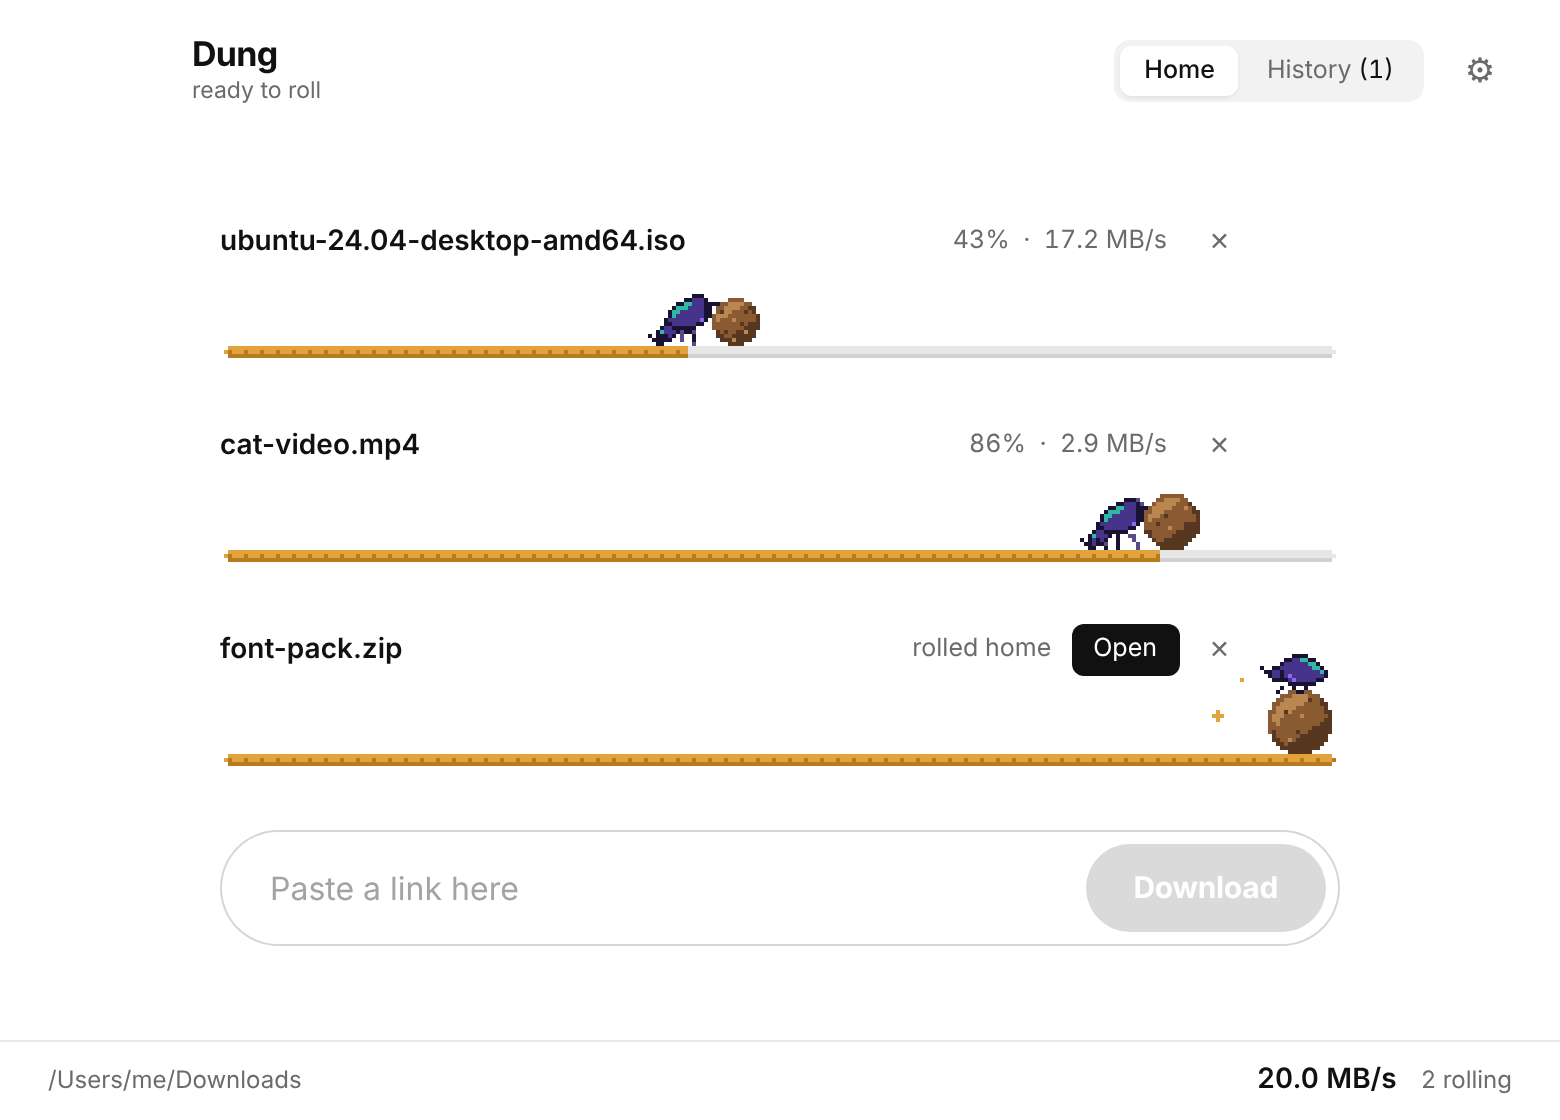
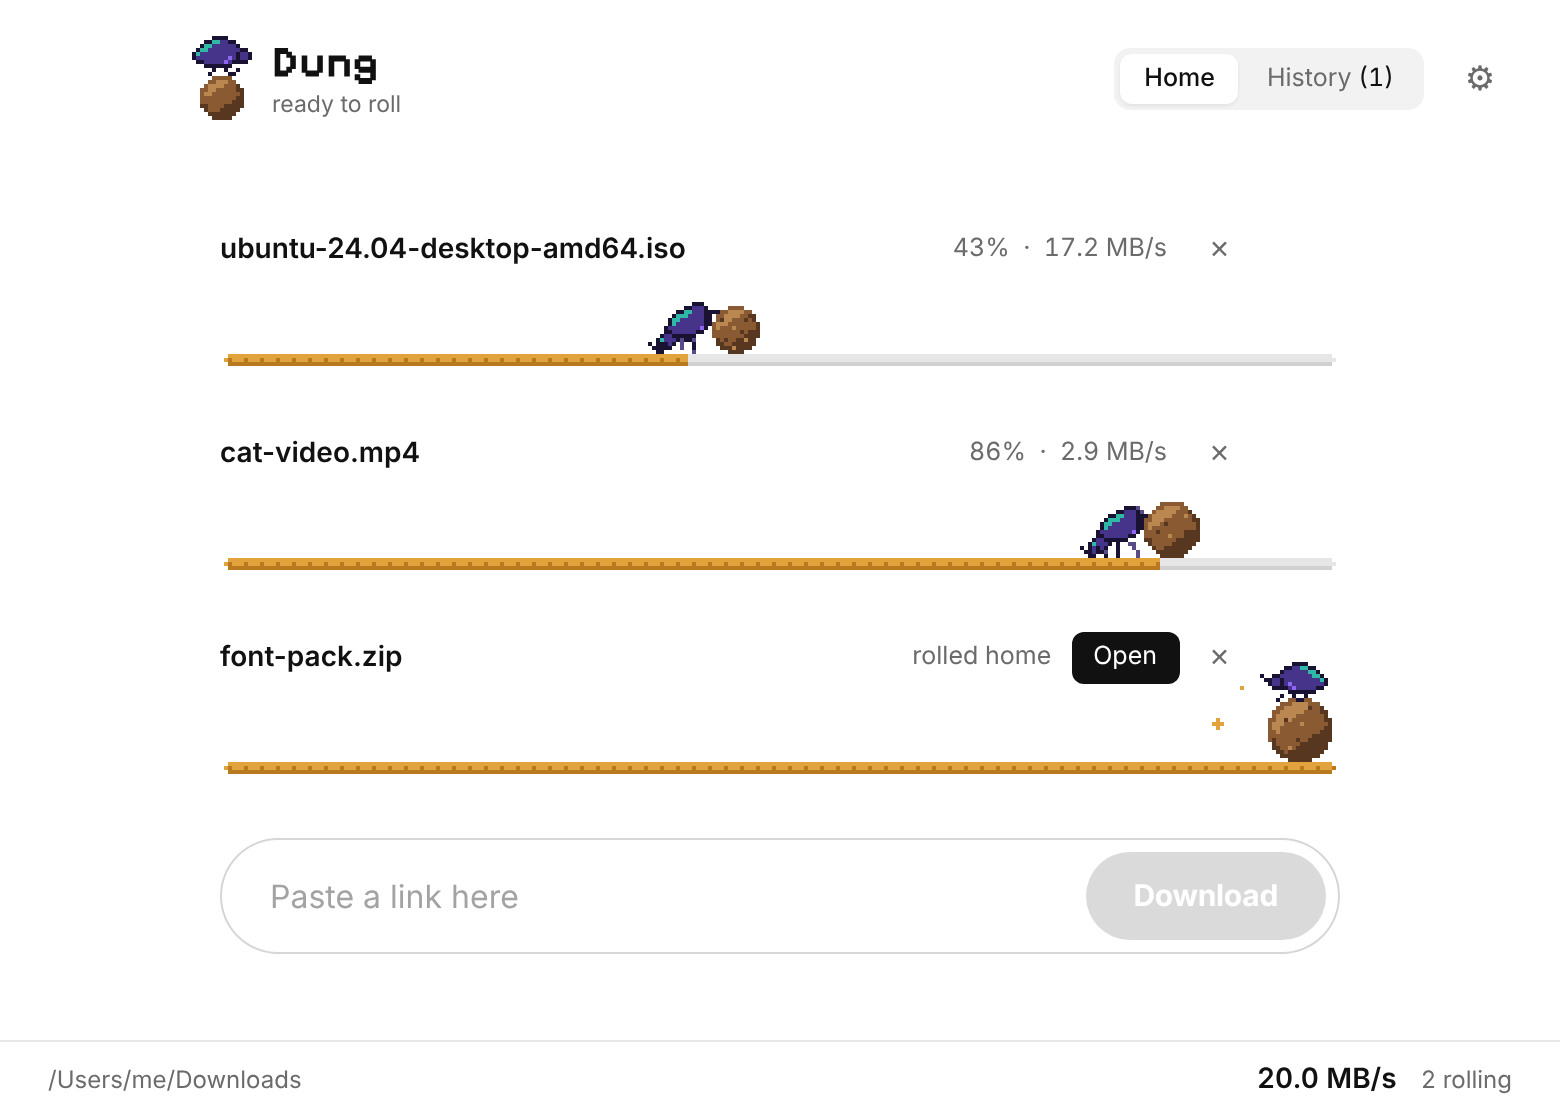
Pixel brand: Pixelify Sans wordmark and a beetle-on-ball mark
Bundle Pixelify Sans (OFL) for the wordmark, titlebar name, dialog titles
and empty state; UI text stays in the system face. The titlebar gets a
crisp SVG mark drawn from the beetle sprite with the status dot as a badge,
and the idle wordmark and the corner name share a view-transition name so
the title glides into the corner when a download starts. Docs, screenshots
and third-party notices updated.

Claude-Session: https://claude.ai/code/session_01LK8Ba89RRevm52nkxgQ2f9

diff --git a/src/renderer/index.html b/src/renderer/index.html
@@ -13,9 +13,12 @@
     <div class="app">
       <header class="titlebar">
         <div class="brand">
-          <span class="dot" id="status-dot" data-state="starting"></span>
+          <span class="brand-mark">
+            <svg class="brand-svg" viewBox="0 0 15 21" width="30" height="42" shape-rendering="crispEdges" aria-hidden="true"><rect x="5" y="0" width="4" height="1" fill="#1a1233"/><rect x="3" y="1" width="2" height="1" fill="#1a1233"/><rect x="5" y="1" width="2" height="1" fill="#2fb8a6"/><rect x="7" y="1" width="2" height="1" fill="#46348a"/><rect x="9" y="1" width="2" height="1" fill="#1a1233"/><rect x="2" y="2" width="1" height="1" fill="#1a1233"/><rect x="3" y="2" width="2" height="1" fill="#2fb8a6"/><rect x="5" y="2" width="6" height="1" fill="#46348a"/><rect x="11" y="2" width="1" height="1" fill="#1a1233"/><rect x="1" y="3" width="1" height="1" fill="#1a1233"/><rect x="2" y="3" width="2" height="1" fill="#2fb8a6"/><rect x="4" y="3" width="8" height="1" fill="#46348a"/><rect x="12" y="3" width="2" height="1" fill="#1a1233"/><rect x="0" y="4" width="1" height="1" fill="#1a1233"/><rect x="1" y="4" width="1" height="1" fill="#2fb8a6"/><rect x="2" y="4" width="9" height="1" fill="#46348a"/><rect x="11" y="4" width="1" height="1" fill="#1a1233"/><rect x="12" y="4" width="2" height="1" fill="#46348a"/><rect x="14" y="4" width="1" height="1" fill="#1a1233"/><rect x="0" y="5" width="1" height="1" fill="#1a1233"/><rect x="1" y="5" width="8" height="1" fill="#46348a"/><rect x="9" y="5" width="1" height="1" fill="#8f66f2"/><rect x="10" y="5" width="1" height="1" fill="#46348a"/><rect x="11" y="5" width="1" height="1" fill="#1a1233"/><rect x="12" y="5" width="2" height="1" fill="#46348a"/><rect x="14" y="5" width="1" height="1" fill="#1a1233"/><rect x="1" y="6" width="2" height="1" fill="#1a1233"/><rect x="3" y="6" width="5" height="1" fill="#46348a"/><rect x="8" y="6" width="1" height="1" fill="#8f66f2"/><rect x="9" y="6" width="1" height="1" fill="#46348a"/><rect x="10" y="6" width="4" height="1" fill="#1a1233"/><rect x="3" y="7" width="7" height="1" fill="#1a1233"/><rect x="5" y="8" width="1" height="1" fill="#1a1233"/><rect x="8" y="8" width="1" height="1" fill="#1a1233"/><rect x="11" y="8" width="1" height="1" fill="#1a1233"/><rect x="4" y="9" width="1" height="1" fill="#1a1233"/><rect x="9" y="9" width="2" height="1" fill="#1a1233"/><rect x="5" y="10" width="5" height="1" fill="#8a5a33"/><rect x="4" y="11" width="2" height="1" fill="#8a5a33"/><rect x="6" y="11" width="3" height="1" fill="#bb8750"/><rect x="9" y="11" width="2" height="1" fill="#8a5a33"/><rect x="3" y="12" width="1" height="1" fill="#8a5a33"/><rect x="4" y="12" width="4" height="1" fill="#bb8750"/><rect x="8" y="12" width="3" height="1" fill="#8a5a33"/><rect x="11" y="12" width="1" height="1" fill="#573720"/><rect x="2" y="13" width="2" height="1" fill="#8a5a33"/><rect x="4" y="13" width="2" height="1" fill="#bb8750"/><rect x="6" y="13" width="5" height="1" fill="#8a5a33"/><rect x="11" y="13" width="2" height="1" fill="#573720"/><rect x="2" y="14" width="1" height="1" fill="#8a5a33"/><rect x="3" y="14" width="2" height="1" fill="#bb8750"/><rect x="5" y="14" width="7" height="1" fill="#8a5a33"/><rect x="12" y="14" width="1" height="1" fill="#573720"/><rect x="2" y="15" width="9" height="1" fill="#8a5a33"/><rect x="11" y="15" width="2" height="1" fill="#573720"/><rect x="2" y="16" width="8" height="1" fill="#8a5a33"/><rect x="10" y="16" width="3" height="1" fill="#573720"/><rect x="2" y="17" width="2" height="1" fill="#573720"/><rect x="4" y="17" width="4" height="1" fill="#8a5a33"/><rect x="8" y="17" width="5" height="1" fill="#573720"/><rect x="3" y="18" width="1" height="1" fill="#573720"/><rect x="4" y="18" width="3" height="1" fill="#8a5a33"/><rect x="7" y="18" width="5" height="1" fill="#573720"/><rect x="4" y="19" width="7" height="1" fill="#573720"/><rect x="5" y="20" width="5" height="1" fill="#573720"/></svg>
+            <span class="dot" id="status-dot" data-state="starting"></span>
+          </span>
           <div class="brand-text">
-            <h1>Dung</h1>
+            <h1 class="brand-name">Dung</h1>
             <p id="engine-label">waking up…</p>
           </div>
         </div>

diff --git a/src/renderer/styles.css b/src/renderer/styles.css
@@ -1,4 +1,14 @@
+@font-face {
+  font-family: 'Pixelify Sans';
+  src: url('fonts/PixelifySans.woff2') format('woff2');
+  font-weight: 400 700;
+  font-display: block;
+}
+
 :root {
+  /* Brand face: pixel display type for the name and big titles only.
+     UI and file names stay in the system face for legibility. */
+  --font-brand: 'Pixelify Sans', ui-monospace, monospace;
   --bg: #ffffff;
   --surface: #ffffff;
   --surface-alt: #fafafa;
@@ -1264,10 +1274,7 @@ dung-progress {
   display: none;
 }
 
-.app[data-mode='idle'] .brand h1 {
-  visibility: visible;
-  opacity: 0;
-}
+
 
 .brand p {
   font-size: 11.5px;
@@ -1620,4 +1627,89 @@ html[data-transition^='history-']::view-transition-new(root) {
 /* Thread counts are engine jargon; keep them out of the footer. */
 #threads-count {
   display: none;
+}
+
+/* ---------- brand ---------- */
+
+.brand {
+  gap: 10px;
+}
+
+.brand-mark {
+  position: relative;
+  flex: none;
+  display: grid;
+  place-items: center;
+  width: 30px;
+  height: 42px;
+}
+
+.brand-svg {
+  display: block;
+  image-rendering: pixelated;
+}
+
+/* The status dot now sits on the mark like a notification badge, only when
+   something needs attention. */
+.brand-mark .dot {
+  position: absolute;
+  right: -3px;
+  top: 2px;
+  width: 9px;
+  height: 9px;
+  border: 2px solid var(--bg);
+  box-sizing: content-box;
+}
+
+.dot[data-state='starting'] {
+  display: none;
+}
+
+.brand-name,
+.brand h1 {
+  font-family: var(--font-brand);
+  font-size: 22px;
+  font-weight: 700;
+  letter-spacing: 0.01em;
+  line-height: 1;
+  view-transition-name: wordmark;
+}
+
+.brand p {
+  margin-top: 3px;
+}
+
+.wordmark {
+  font-family: var(--font-brand);
+  font-size: 64px;
+  font-weight: 700;
+  letter-spacing: 0.01em;
+}
+
+/* Exactly one wordmark is rendered at a time so the big idle title can
+   glide into the corner (and back) as one view transition. */
+.app[data-mode='idle'] .brand-name {
+  display: none;
+}
+
+.app:not([data-mode='idle']) .wordmark {
+  display: none;
+}
+
+/* Hide the small mark on idle too: the big title and beetle are the brand there. */
+.app[data-mode='idle'] .brand-mark .brand-svg {
+  visibility: hidden;
+}
+
+.settings-head h2,
+.modal h3,
+.setup-card h3 {
+  font-family: var(--font-brand);
+  font-weight: 700;
+  letter-spacing: 0.01em;
+}
+
+.empty {
+  font-family: var(--font-brand);
+  font-size: 18px;
 }

diff --git a/docs/DESIGN.md b/docs/DESIGN.md
@@ -75,14 +75,20 @@ only if you mean to change the component for everyone.
 
 ## Typography
 
-System stack: `-apple-system, BlinkMacSystemFont, 'SF Pro Text', 'Helvetica Neue', sans-serif`.
+**Brand face: [Pixelify Sans](https://github.com/eifetx/Pixelify-Sans)** (SIL OFL 1.1, bundled at
+`src/renderer/fonts/`, token `--font-brand`). It matches the pixel beetle, so it is used only where
+the brand speaks: the wordmark, the titlebar name, dialog and setup-card titles, and the empty
+History line. Never use it for file names, numbers, buttons or body copy.
+
+UI face — system stack: `-apple-system, BlinkMacSystemFont, 'SF Pro Text', 'Helvetica Neue', sans-serif`.
 Monospace (paths, log, key caps): `ui-monospace, SFMono-Regular, Menlo, monospace`.
 Numbers that tick (speed, sizes, percentages) use `font-variant-numeric: tabular-nums`.
 
 | Role | Size / weight | Tracking | Where |
 |---|---|---|---|
-| Wordmark | 44px / 750 | −0.045em | Idle home |
-| Dialog title | 22px / 650 (settings), 19px (alerts) | −0.02em | Modals |
+| Wordmark (brand face) | 64px / 700 | +0.01em | Idle home |
+| Titlebar name (brand face) | 22px / 700 | +0.01em | Next to the beetle mark |
+| Dialog title (brand face) | 22px (settings), 19px (alerts) / 700 | +0.01em | Modals, setup card |
 | Current file | 18px / 650 | −0.01em | Home while downloading |
 | Folder name | 17px / 650 | −0.01em | Settings folder card |
 | Input / body | 15–16px / 400 | — | Paste box, rows |
@@ -92,6 +98,14 @@ Numbers that tick (speed, sizes, percentages) use `font-variant-numeric: tabular
 | Badge | 10.5px, uppercase, +0.05em | — | Status tags |
 
 ---
+
+## Brand mark
+
+The mark is the beetle standing on its ball — the 100% moment — drawn from the same sprite as the
+progress bar, as an inline crisp-edged SVG in the titlebar. Lockup: mark, 10px gap, "Dung" in the
+brand face. The status dot sits on the mark's top-right as a badge and appears only when something
+needs attention. On idle the big wordmark *is* the brand, so the lockup hides and the two share the
+`wordmark` view-transition name: leaving idle, the big title glides into the corner.
 
 ## Shape and spacing
 

diff --git a/README.md b/README.md
@@ -288,3 +288,6 @@ contributors), licensed under the **GNU GPL v2 or later**. Dung runs it as a sep
 Dung's own code stays MIT. The GPL text ships next to the binary (`bin/licenses/`), and the exact
 source tarball (`aria2-1.37.0.tar.xz`) is attached to every [release](https://github.com/xfanwu/ddddd/releases).
 You can swap in your own aria2 build under *Settings → Advanced*.
+
+The brand typeface is **[Pixelify Sans](https://github.com/eifetx/Pixelify-Sans)** © The Pixelify Sans
+Project Authors, under the SIL Open Font License 1.1 (`src/renderer/fonts/OFL.txt`).
